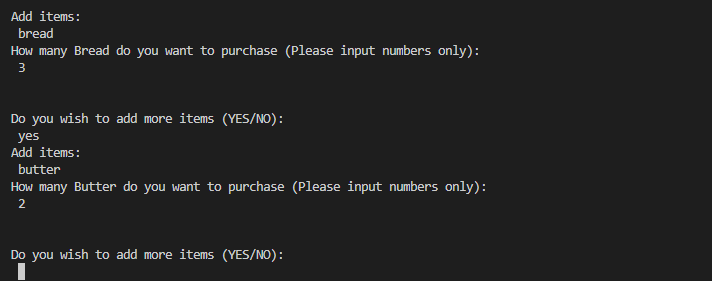
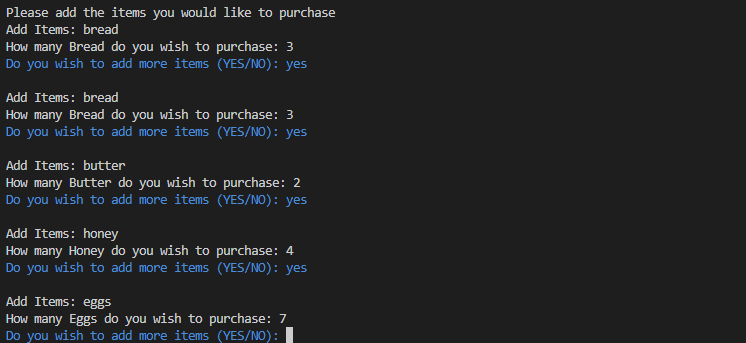
docs: Edit README to correct identified bugs and issues with code

diff --git a/run.py b/run.py
@@ -30,9 +30,9 @@ def welcome():
                                               justify="center")
     print(welcome_to_store)
 
-    customer_name = input("Please enter your name:\n ")
+    customer_name = input("Please enter your name: ")
     while customer_name == "":
-        customer_name = input(Fore.RED + "Please enter a name:\n ")
+        customer_name = input("Please enter a name: ")
         print(Style.RESET_ALL)
 
     return customer_name
@@ -61,7 +61,7 @@ def display_available(customer):
 
     available_dict = {}
     for items, prices in zip(available_items, available_prices):
-        print(f"{items} (Price: {prices})")
+        print(f"{items} (Price: {prices}) \n")
 
     available_dict = dict(zip(available_items, available_prices))
 
@@ -74,7 +74,7 @@ def validate_start_shopping_input():
     """
 
     while True:
-        choice = input('Would you like to start shopping now: (YES/NO)\n ')
+        choice = input('Would you like to start shopping now(YES/NO):\n ')
         if choice.upper() != "YES" and choice.upper() != "NO":
             print(Fore.RED + "You entered an invalid answer." +
                              " Please enter YES or NO")
@@ -100,30 +100,38 @@ def shopping_items(available, proceed):
     """
 
     shopping_cart = {}
-    print("\nPlease add the items you would like to purchase\n")
+    print("\nPlease add the items you would like to purchase")
 
     while True:
-        items = input("Add Items:\n ")
+        items = input("Add Items: ")
         if items.title() in available:
+            quantity = 0
             try:
-                quantity = int(input(f'How many {items.title()} do you wish to purchase: '))
+                qty = int(input(f'How many {items.title()} do ' +
+                                'you wish to purchase: '))
+                quantity += qty
             except ValueError:
-                print("Please enter a number E.g.1,2,3,4,5...")
+                print("\nRe-enter the item you would like to purchase ")
+                print(Fore.RED + "Please enter quantity of items" +
+                                 "as a number E.g.1,2,3,4,5...")
+                print(Style.RESET_ALL)
                 continue
 
             for key, value in available.items():
                 available[key] = float(value)
                 shopping_cart.update(
                     {items:
-                    {"Quantity": quantity,
-                     "Subtotal": available[items.title()] *
-                      quantity}
-                    }
+                     {"Quantity": quantity,
+                      "Subtotal": available[items.title()] * quantity
+                      }
+                     }
                 )
-            checkout = input("Do you wish to add more items (YES/NO):")
+            checkout = input(Fore.BLUE + "Do you wish to add" +
+                                         "more items (YES/NO): ")
+            print(Style.RESET_ALL)
             while checkout.upper() != "YES" and checkout.upper() != "NO":
                 print("Please enter YES or NO ")
-                checkout = input("Do you wish to add more items (YES/NO):")
+                checkout = input("Do you wish to add more items (YES/NO): ")
 
             if checkout.upper() == "YES":
                 continue
@@ -135,14 +143,6 @@ def shopping_items(available, proceed):
             print(Fore.RED + "Your entry is not available in store," +
                              " Please check the list of available items ")
             print(Style.RESET_ALL)
-
-        # try:
-        #     quantity = int(input(f'How many {items.title()} do you wish to purchase: \n'))
-        #     break
-        # except ValueError:
-        #     print(Fore.RED + 'You entered a Non-Number. ')
-        #     print(Style.RESET_ALL)
-        #     quantity = int(input(f'How many {items.title()} do you wish to purchase: \n'))
 
     return shopping_cart
 
@@ -176,7 +176,6 @@ def main():
     name_of_customer = welcome()
     available_in_store = display_available(name_of_customer)
     start_shopping = validate_start_shopping_input()
-    # proceed_to_shopping = proceed_shopping(check_start_shopping)
     lists_of_items = shopping_items(available_in_store, start_shopping)
     bill_summary(lists_of_items)
 

diff --git a/README.md b/README.md
@@ -53,15 +53,13 @@ With each item selection, the user is also required to state the quantity they w
 
 * After going through the store's available items and prices, the user is then asked if they will like to start shopping by indicating YES or NO
 
-* If the user input is neither YES or NO, an error message highlighted in red is printed informing the user that an invalid word was entered. If the user simply presses enter without inputting YES or NO, an error message highlighted in red is printed asking the user to type in either YES or NO.
+* If the user input is neither YES or NO, an error message highlighted in red is printed informing the user that an invalid word was entered. If the user simply presses enter without inputting YES or NO, an error message highlighted in red is printed informing the user that an invalid answer was entered along with a request to type in either YES or NO.
 
 * If the user's answer is NO, then a message is printed thanking the user for visiting the store and imploring them to come back another time to shop at the store.
 
 ![](/assets/images/start_shopping.png)
 
-![](/assets/images/start_shopping_error1.png)
-
-![](/assets/images/start_shopping_error2.png)
+![](/assets/images/invalid_startshop.png)
 
 ![](/assets/images/start_shopping_no.png)
 
@@ -72,32 +70,27 @@ With each item selection, the user is also required to state the quantity they w
 
 * After a user agrees to start shopping by inputting YES, a message is printed asking the user to add the items they wish to purchase from the store. Then an input request is made to enter the first item they will like to purchase.
 
-* If a user simply presses enter without typing in any item, an error message highlighted in red is printed informing the user they didn't add any items. Then an input request is made to ask if the user wishes to add other items.
+* If a user simply presses enter without typing in any item, an error message highlighted in red is printed informing the user that the entry made is not available in the store, and referring the user to check the list of available items in store. Then another input request is made to add items they will like to purchase.
 
-* If a user enters an item that is not available in the store, an error message highlighted in red is printed informing the user that the added item is not available in the store. Then an input request is made to ask if the user wishes to add other items.
+* If a user enters an item that is not available in the store, an error message highlighted in red is printed informing the user that the added item is not available in the store. Then an input request is made to ask the user to add items.
 
 ![](/assets/images/add_items.png)
 
-![](/assets/images/add_items_empty.png)
-
-![](/assets/images/add_items_unavailable.png)
+![](/assets/images/invalid_additems.png)
 
 
 **Add Quantity Input:**
 
 * Any added item is checked for in-store availability and if available, the user is asked to input the quantity they wish to purchase for the added item.
 
-* If a user inputs a quantity that is not a number or simply presses enter without entering any input value, an error message highlighted in red is printed informing the user they entered a Non-Number and asks the user to re-enter a number giving an examples of a number entry.
+* If a user inputs a quantity that is not a number or simply presses enter without entering any input value, a printed request is made to user to re-enter the items they want to purchase and another error message highlighted in red is printed telling the user to input the quantity as a number with examples of a number entry.
 
 * Upon inputting the quantity for a selected item, the user is asked if they wish to continue shopping by a YES or NO input to add another item. If the type in YES they get prompted to add an item, then quantity for the entered item.
 
-![](/assets/images/non_number_quantity.png)
+![](/assets/images/invalid_quantity.png)
 
-![](/assets/images/blank_number_quantity.png)
+![](/assets/images/added_items.png)
 
-![](/assets/images/add_quantity.png)
-
-![](/assets/images/more_items.png)
 
 
 **Continue Shopping Feedback:**
@@ -131,12 +124,10 @@ With each item selection, the user is also required to state the quantity they w
 
 * When the user opts to stop adding items to their shopping cart by entering NO to the YES or NO input request, instead of proceeding to calculate their final bill, I would like to have another prompt message printed to the user, asking the user if they are sure they are done with adding items with another YES or NO input request. To reconfirm if they wish to quit, they should input NO and if they still want to continue adding items they can input YES. This prompt message will allow the user to reconsider if they wish to add more items before checking out to the bill summary.
 
-* The Input request to add more items to the shopping cart needs to be handle blank inputs such that any input that's not YES or NO would print an error and make another input request to the user to enter YES or NO, instead of proceeding to calculate the user's final bill. 
-
 * Every store owner will want to have records of goods sold, so it would be very useful to have data from the bill summary posted to a Google spreadsheet, to be populated with the following details as headers in the first row of the worksheet: 
 
    * Customer Name
-   * Item Bought
+   * Items Bought
    * Quantity Bought
    * Amount
    * Date 
@@ -216,9 +207,25 @@ This is the developer environment where the code for this project was written, a
 
 ### Identified Bugs
 
-* ValueError: invalid literal for int() with base 10:
+* Customer Name
 
-    * During testing, I discovered that the add_quantity Input would throw up an error and exit the program if a blank Input or Non-Number is entered.
+    * It was discovered that the application did not handle an empty/blank customer name input after 2 attempts. To fix this problem, I added a while loop in the Welcome function to ensure the program will continously request for user input if the entry is blank. 
+
+    ![](/assets/images/handle_customer_name.png)
+
+* Start Shopping
+
+    * There was an issue with validating user input for the question 'Would you like to start shopping now (YES/NO)'. The application was terminating upon receiving an invalid or blank user input to this question. To fix this problem, I replaced the function handling this input and introduced a While True statement that checks if the answer is not YES or NO.  Any answer other than YES or NO would result in printing a message to the terminal informing user that an invalid answer was entered, with a request to enter either YES or NO. This message is printed continuously till a YES or NO answer is entered.   
+
+    ![](/assets/images/handle_start_shopping.png)
+
+* Quantity Error
+
+    * After a user inputs an item they wish to purchase, the application requests for the quantity of items to be purchased. The program can only function properly when the user enters a number (integer). However the application was not properly handling empty/invalid input to the quantity field, which led to termination of the application.
+
+    To fix this, I nested a try statement in a while True statement that first check if the added item is available in the store then proceed to request for the quantity. If the quantity is not an integer, it loops back to the request input for the item and quantity.  
+  
+    ![](/assets/images/handle_quantity_error.png)    
 
 >
 >  File "run.py", line 104, in shopping_items
